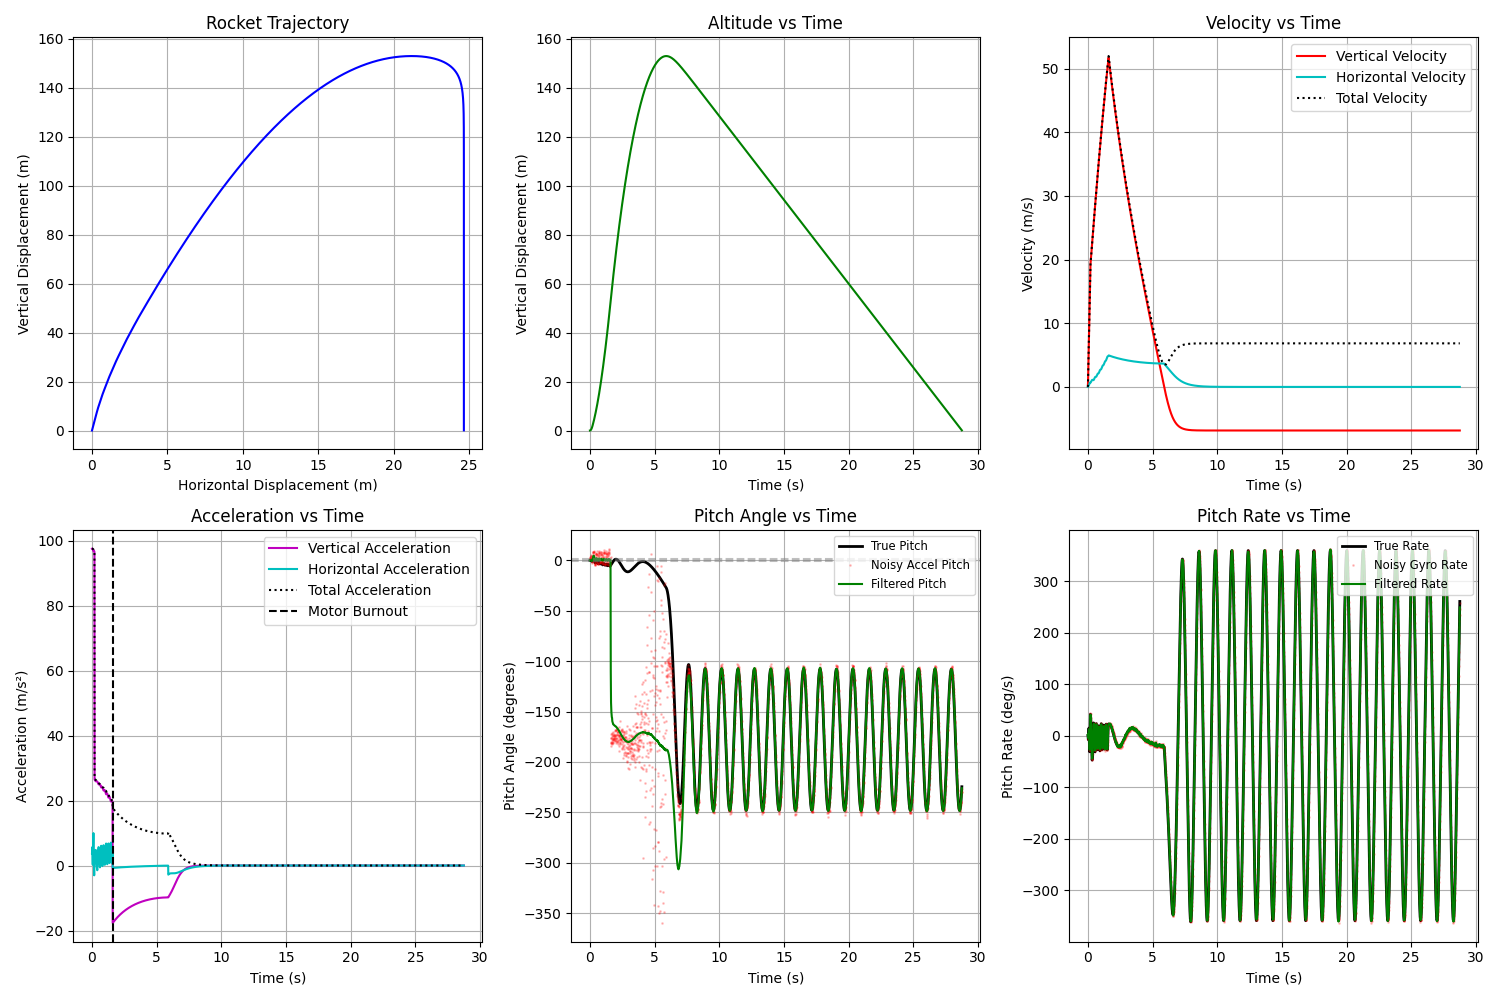
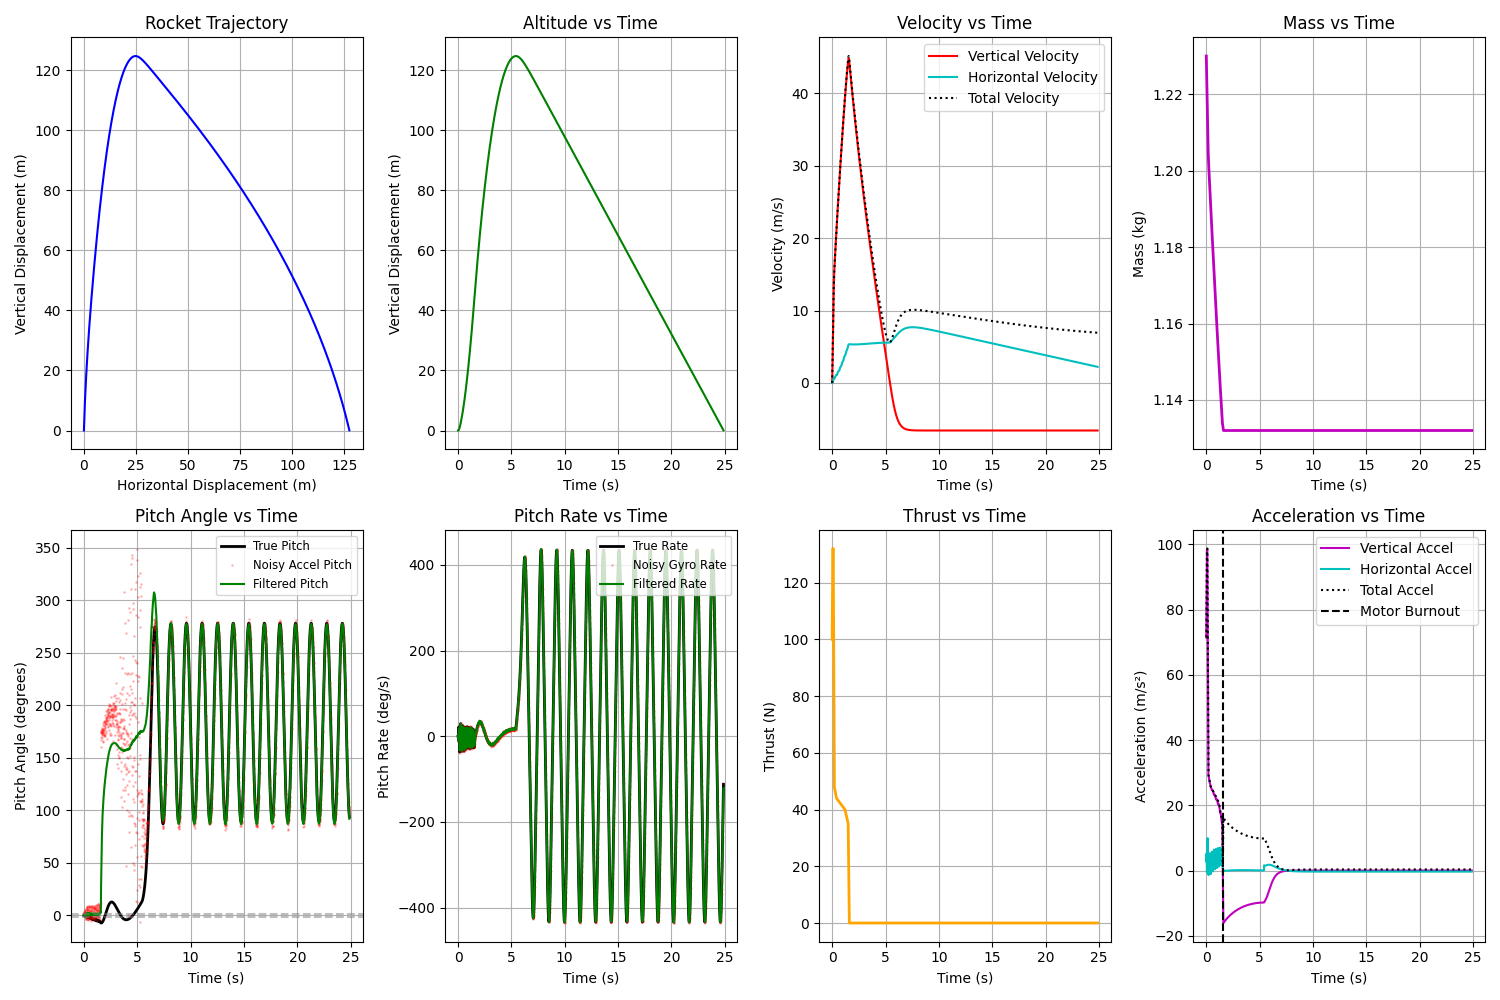
Implementing Phase 4: Wind shear and relative aerodynamics
Added a horizontal wind profile that increases with altitude. The physics engine now calculates aerodynamic forces based on the rocket's velocity relative to the airmass rather than the ground frame, introducing realistic weathercocking torques. Also added an Integral (I) term to the TVC controller to help eliminate steady-state error caused by the continuous wind disturbance.

diff --git a/simulation/rocket_sim.py b/simulation/rocket_sim.py
@@ -57,6 +57,7 @@ SERVO_TAU = 0.05
 
 Kp_gain = 5.0
 Kd_gain = 1.2
+Ki_gain = 0.5
 
 # 3. Kalman Filter Class
 class KalmanFilter1D:
@@ -104,7 +105,14 @@ def get_physics_properties(t):
     
     return thrust, mass, cg_from_base, inertia
 
-def get_derivatives(t, state, est_pitch, est_pitch_rate):
+# Environmental Parameters
+surface_wind_x = 2.0  # m/s
+wind_shear_gradient = 0.05  # m/s per meter of altitude
+
+def get_wind(y):
+    return surface_wind_x + wind_shear_gradient * max(0.0, y)
+
+def get_derivatives(t, state, est_pitch, est_pitch_rate, est_pitch_int):
     x, y, vx, vy, pitch, pitch_rate, gimbal = state
     
     thrust, mass, cg_from_base, inertia = get_physics_properties(t)
@@ -112,7 +120,7 @@ def get_derivatives(t, state, est_pitch, est_pitch_rate):
     moment_arm_tvc = cg_from_base
     moment_arm_drag = cp_from_base - cg_from_base
         
-    target_gimbal = -((Kp_gain * est_pitch) + (Kd_gain * est_pitch_rate))
+    target_gimbal = -((Kp_gain * est_pitch) + (Kd_gain * est_pitch_rate) + (Ki_gain * est_pitch_int))
     target_gimbal = np.clip(target_gimbal, -MAX_GIMBAL_ANGLE_RAD, MAX_GIMBAL_ANGLE_RAD)
     
     dgimbal_dt = (target_gimbal - gimbal) / SERVO_TAU
@@ -127,14 +135,19 @@ def get_derivatives(t, state, est_pitch, est_pitch_rate):
         area = area_base
         Cd = Cd_base
 
-    velocity_mag = math.sqrt(vx**2 + vy**2)
+    # Wind and Relative Velocity
+    v_wind_x = get_wind(y)
+    v_rel_x = vx - v_wind_x
+    v_rel_y = vy  # Assuming negligible vertical wind
+
+    velocity_mag = math.sqrt(v_rel_x**2 + v_rel_y**2)
     drag_force = 0.5 * rho * Cd * area * (velocity_mag**2)
     
     if velocity_mag > 1e-6:
-        drag_x = drag_force * (vx / velocity_mag)
-        drag_y = drag_force * (vy / velocity_mag)
+        drag_x = drag_force * (v_rel_x / velocity_mag)
+        drag_y = drag_force * (v_rel_y / velocity_mag)
         
-        v_angle = math.atan2(vy, vx)
+        v_angle = math.atan2(v_rel_y, v_rel_x)
         aoa = body_angle - v_angle
         drag_radial = drag_force * math.sin(aoa)
     else:
@@ -162,11 +175,11 @@ def get_derivatives(t, state, est_pitch, est_pitch_rate):
     
     return np.array([vx, vy, ax, ay, pitch_rate, angular_accel, dgimbal_dt])
 
-def rk4_step(t, state, dt, est_pitch, est_pitch_rate):
-    k1 = get_derivatives(t, state, est_pitch, est_pitch_rate)
-    k2 = get_derivatives(t + dt/2, state + (dt/2) * k1, est_pitch, est_pitch_rate)
-    k3 = get_derivatives(t + dt/2, state + (dt/2) * k2, est_pitch, est_pitch_rate)
-    k4 = get_derivatives(t + dt, state + dt * k3, est_pitch, est_pitch_rate)
+def rk4_step(t, state, dt, est_pitch, est_pitch_rate, est_pitch_int):
+    k1 = get_derivatives(t, state, est_pitch, est_pitch_rate, est_pitch_int)
+    k2 = get_derivatives(t + dt/2, state + (dt/2) * k1, est_pitch, est_pitch_rate, est_pitch_int)
+    k3 = get_derivatives(t + dt/2, state + (dt/2) * k2, est_pitch, est_pitch_rate, est_pitch_int)
+    k4 = get_derivatives(t + dt, state + dt * k3, est_pitch, est_pitch_rate, est_pitch_int)
     return state + (dt/6) * (k1 + 2*k2 + 2*k3 + k4)
 
 times = []
@@ -187,12 +200,13 @@ time_elapsed = 0.0
 kf = KalmanFilter1D(initial_state=[0.0, 0.0])
 est_pitch = 0.0
 est_pitch_rate = 0.0
+est_pitch_int = 0.0
 
-print("Starting RK4 Rigid Body Dynamics + IMU + Dynamic Mass Simulation...")
+print("Starting RK4 Rigid Body Dynamics + IMU + Dynamic Mass + Wind Simulation...")
 
 while time_elapsed == 0 or X[1] >= 0:
     thrust, mass, cg_from_base, inertia = get_physics_properties(time_elapsed)
-    derivs = get_derivatives(time_elapsed, X, est_pitch, est_pitch_rate)
+    derivs = get_derivatives(time_elapsed, X, est_pitch, est_pitch_rate, est_pitch_int)
     
     ax_true = derivs[2]
     ay_true = derivs[3]
@@ -252,7 +266,12 @@ while time_elapsed == 0 or X[1] >= 0:
     est_pitch_vals.append(math.degrees(est_pitch))
     est_pitch_rate_vals.append(math.degrees(est_pitch_rate))
     
-    X = rk4_step(time_elapsed, X, dt, est_pitch, est_pitch_rate)
+    # Integral update
+    est_pitch_int += est_pitch * dt
+    # Anti-windup
+    est_pitch_int = np.clip(est_pitch_int, -math.radians(20), math.radians(20))
+    
+    X = rk4_step(time_elapsed, X, dt, est_pitch, est_pitch_rate, est_pitch_int)
     time_elapsed += dt
     
     if time_elapsed > 1000:
